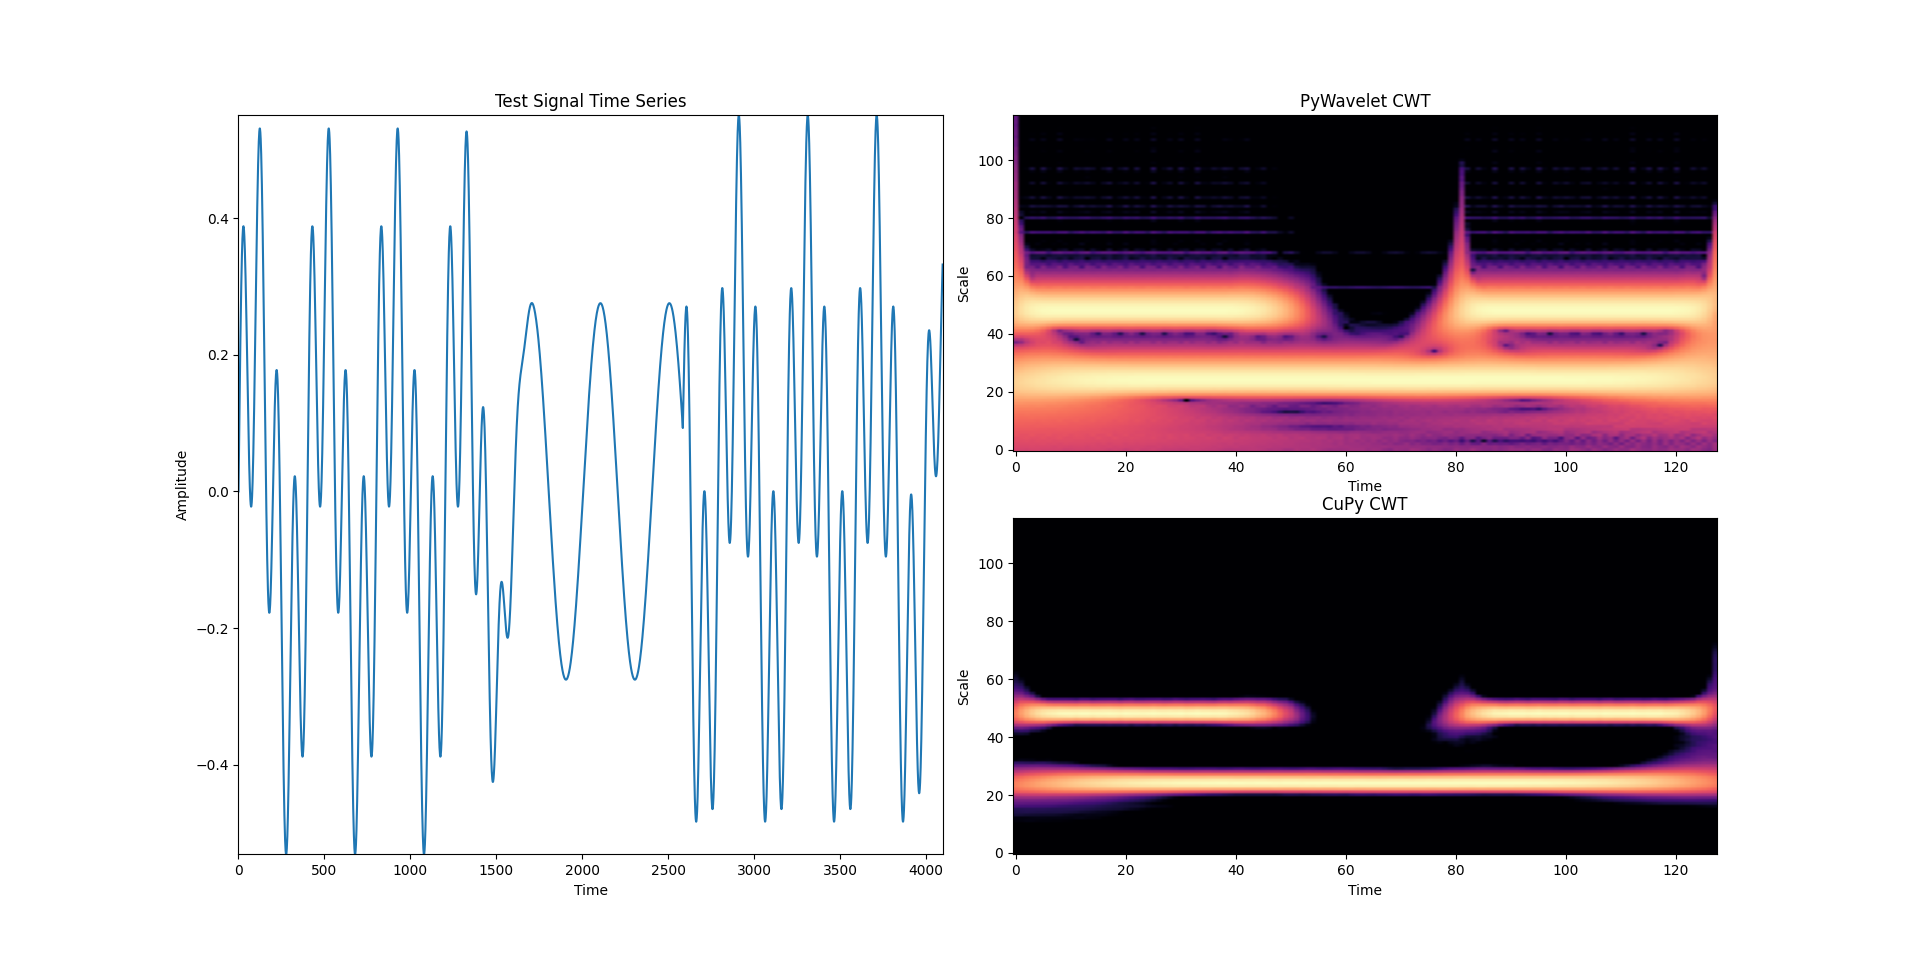
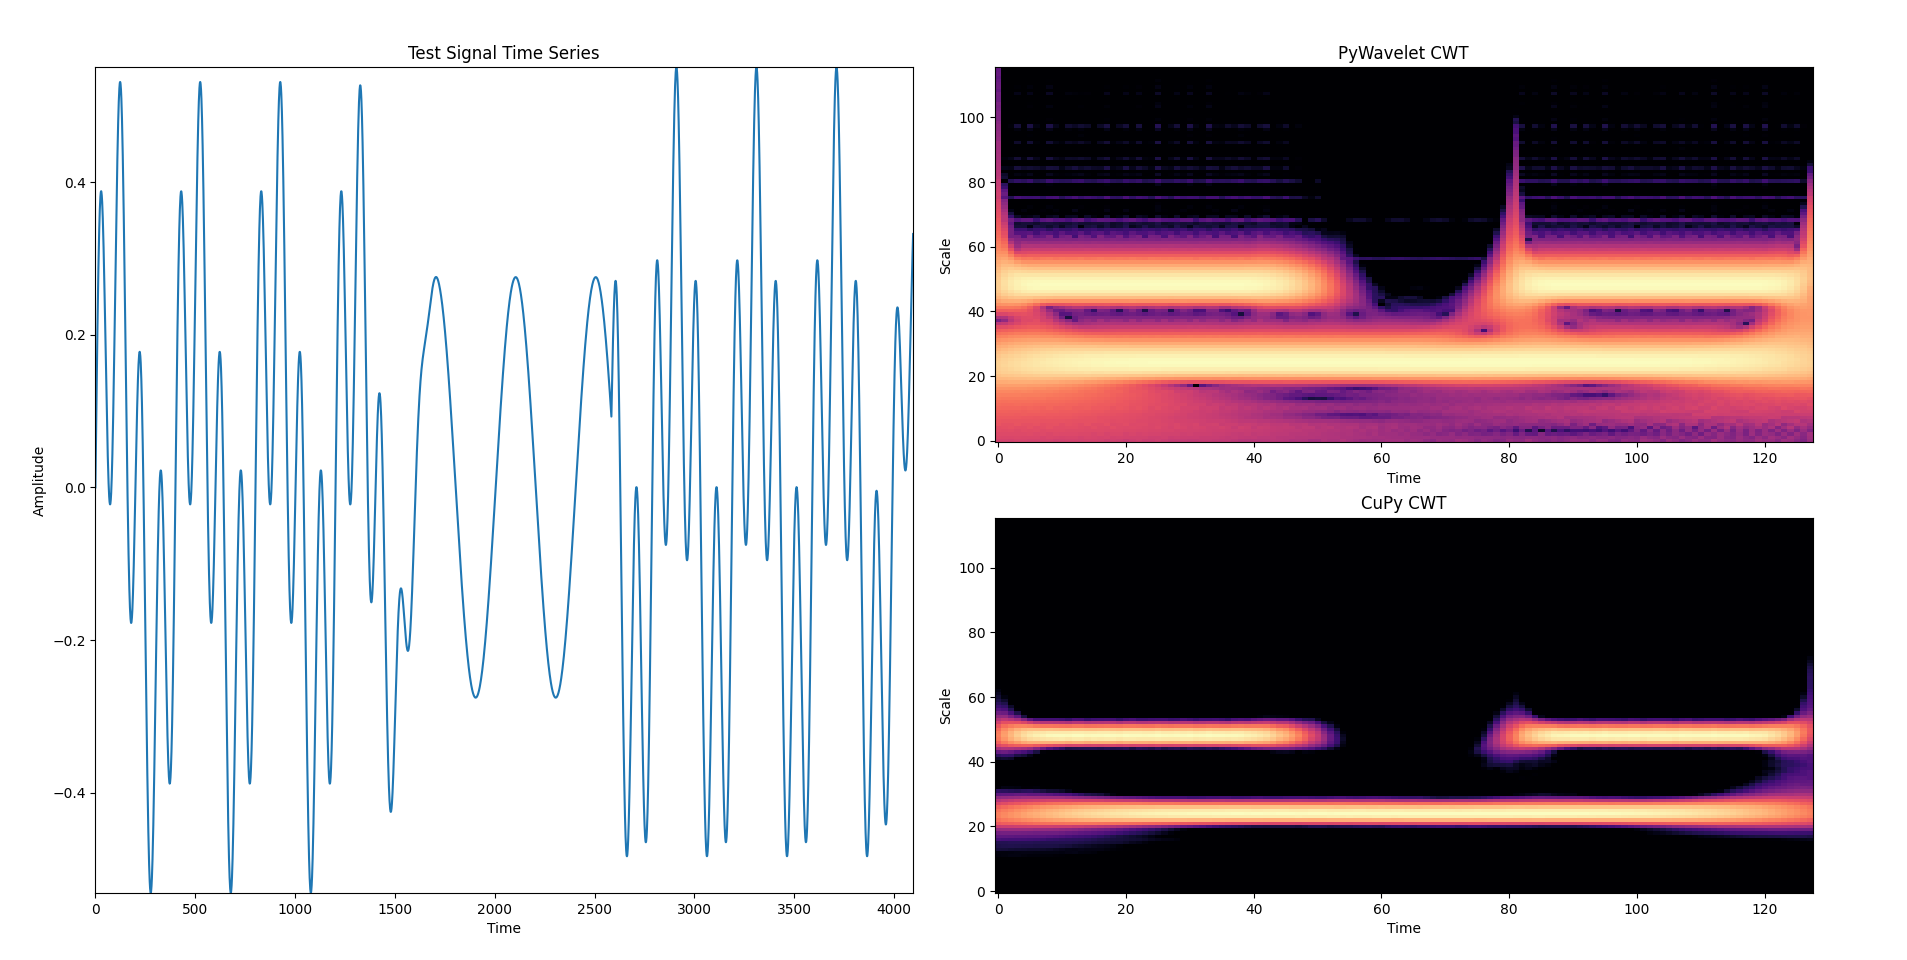
Clean up, fixed padding around plots to make them fill up the window more in benchmark

diff --git a/research/benchmark.py b/research/benchmark.py
@@ -21,6 +21,9 @@ from subshader.audio.audio_input import AudioInput
 from subshader.dsp.wavelet import PyWavelet, NumpyWavelet, CupyWavelet
 from subshader.viz.plotter import PyQtPlotter, ShaderPlot
 
+'''
+Constants
+'''
 NUM_ITERATIONS = 100
 
 WINDOW_SIZE = 4096
@@ -61,10 +64,8 @@ class Benchmark():
         '''
         Plotter Implementations
         '''
-        # Get plot shapes
-        # Full-resolution shape (freqs, time)
+        # Plot shapes
         self.plot_shape = py_wavelet.get_shape()
-        # Downsampled shape to match compute_cwt() output
         self.plot_shape_downsampled = py_wavelet.get_downsampled_result_shape()
 
         # PyQtGraph Plotter
@@ -75,7 +76,10 @@ class Benchmark():
         shader = ShaderPlot(file_path = FILE_PATH,
                             frame_shape = self.plot_shape_downsampled)
 
-        # Function List and Dummy Arguments (note special python ',' syntax)
+        '''
+        Function List and Dummy Arguments 
+            - note special python ',' syntax
+        '''
         self.func_list = [
             (audio_input.get_frame,         ()),
             (py_wavelet.compute_cwt,        (self.audio_data,)),
@@ -131,8 +135,8 @@ class Benchmark():
         ax_py = fig.add_subplot(2, 2, 2)  # Right column, top
         ax_cp = fig.add_subplot(2, 2, 4)  # Right column, bottom
         
-        # Add padding between the left and right columns
-        plt.subplots_adjust(wspace=0.1, hspace=0.2)
+        # Add padding between the left and right plots, minimize edge padding
+        plt.subplots_adjust(left=0.05, right=0.95, top=0.93, bottom=0.07, wspace=0.1, hspace=0.2)
 
         # Time series on the left
         ax_ts.set_title("Test Signal Time Series")
